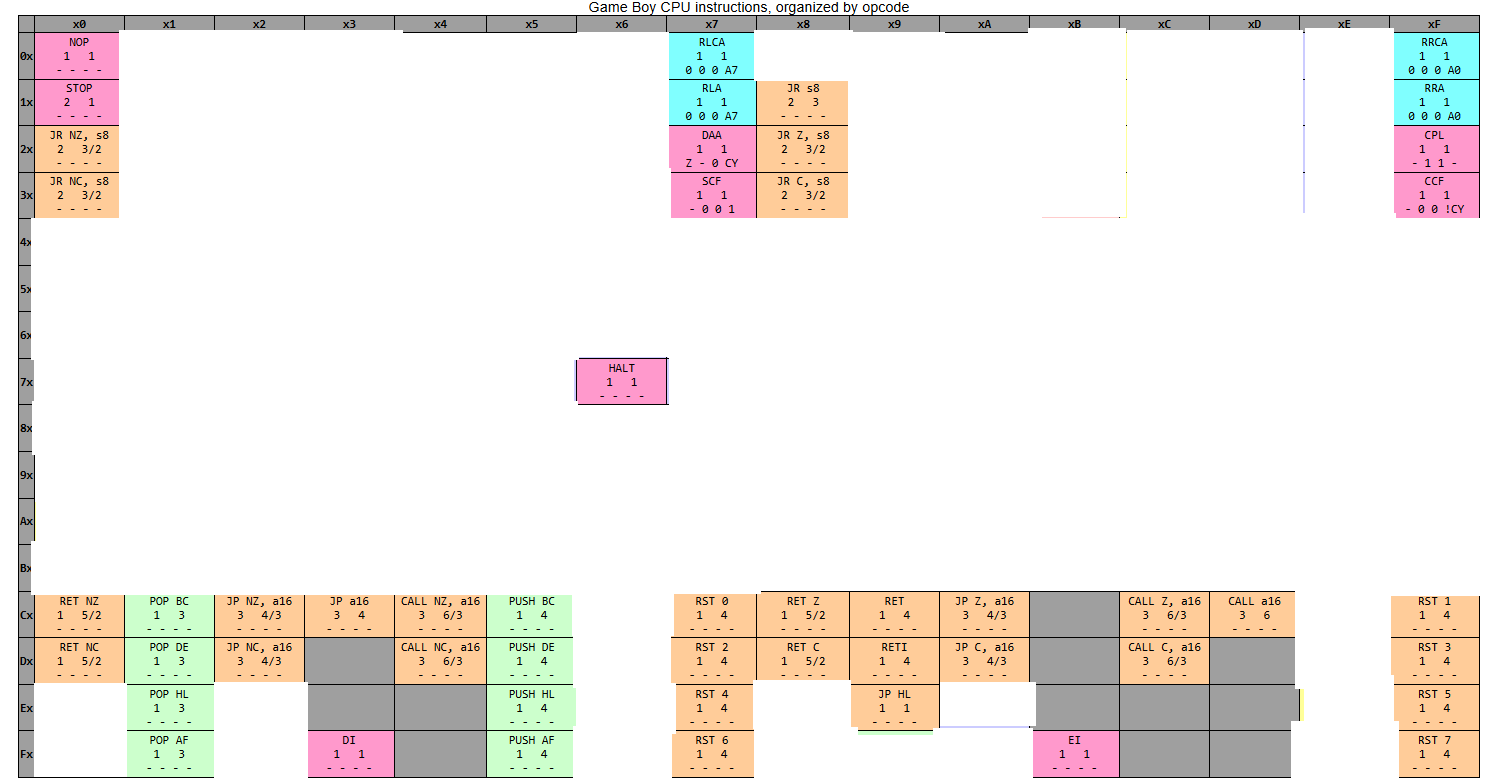
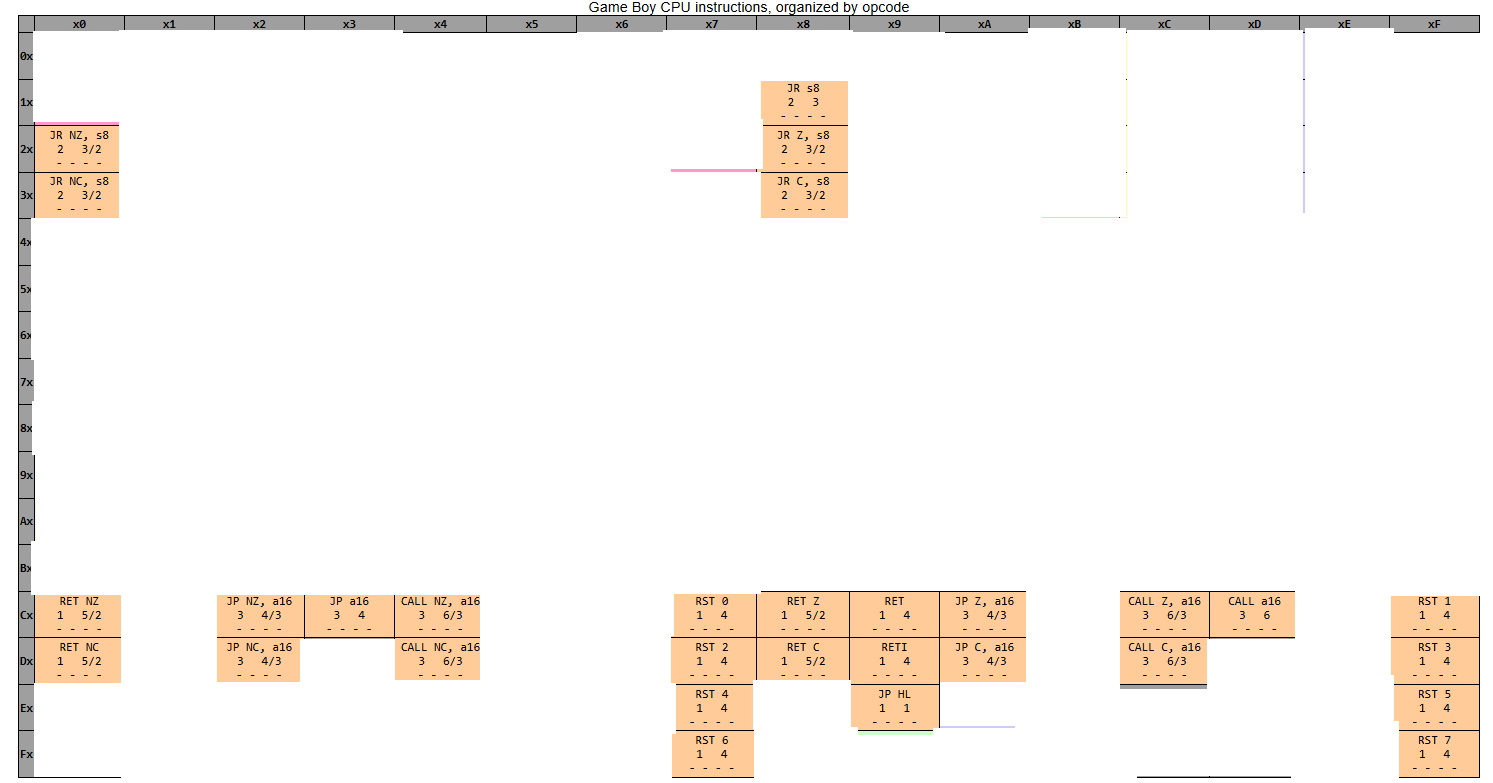
stack control tests

diff --git a/tests/cpu/cpu-test.cpp b/tests/cpu/cpu-test.cpp
@@ -570,6 +570,64 @@ TEST(CPUTest, RotateRegisters)
 }
 
 
+TEST(CPUTest, StackControl)
+{
+	typedef struct TestCaseAddress
+	{
+		std::vector<rose_core::u8> instructions;
+		rose_core::u16 address_to_check;
+		rose_core::u16 expected_value;
+	} TestCaseAddress;
+
+	std::vector<TestCaseAddress> testCasesAddress{
+		{ { 0xE8, 0x64, 0x01, 0xCD, 0xAB, 0xC5 }, 0x62, 0xCD }, // Set stack pointer to 100, then BC to 0xABCD. Push 0xABCD to stack.
+		{ { 0xE8, 0x64, 0x01, 0xCD, 0xAB, 0xC5 }, 0x63, 0xAB }, // Set stack pointer to 100, then BC to 0xABCD. Push 0xABCD to stack. 
+	};
+
+	for (TestCaseAddress test : testCasesAddress)
+	{
+		rose_core::MMU mmu;
+		rose_core::CPU cpu(mmu, 0x0);
+
+		loadVectorToMemory(test.instructions, mmu);
+
+		while (cpu.viewRegisters().programCounter < test.instructions.size())
+		{
+			ASSERT_NO_FATAL_FAILURE(cpu.executeInstruction());
+		}
+		EXPECT_EQ(test.expected_value, mmu.getU8(test.address_to_check));
+	}
+
+	typedef struct TestCaseRegister
+	{
+		std::vector<rose_core::u8> instructions;
+		ERegister eRegister;
+		rose_core::u16 expected_value;
+	} TestCaseRegister;
+
+	std::vector<TestCaseRegister> testCasesRegister{
+		{ { 0xE8, 0x64, 0x01, 0xCD, 0xAB, 0xC5 }, SP, 0x62 }, // Set stack pointer to 100, then BC to 0xABCD. Push 0xABCD to stack. 
+
+		{ { 0xE8, 0x64, 0x01, 0xCD, 0xAB, 0xC5, 0xD1 }, DE, 0xABCD }, // Set stack pointer to 100, then BC to 0xABCD. Push 0xABCD to stack. Pop into DE.
+		{ { 0xE8, 0x64, 0x01, 0xCD, 0xAB, 0xC5, 0xD1 }, SP, 0x64 }, // Set stack pointer to 100, then BC to 0xABCD. Push 0xABCD to stack. Pop into DE.
+	};
+
+	for (TestCaseRegister test : testCasesRegister)
+	{
+		rose_core::MMU mmu;
+		rose_core::CPU cpu(mmu, 0x0);
+
+		loadVectorToMemory(test.instructions, mmu);
+
+		while (cpu.viewRegisters().programCounter < test.instructions.size())
+		{
+			ASSERT_NO_FATAL_FAILURE(cpu.executeInstruction());
+		}
+		EXPECT_EQ(test.expected_value, getERegister(cpu, test.eRegister));
+	}
+	
+}
+
 
 TEST(CPUTest, Miscellaneous)
 {

diff --git a/src/core/cpu/cpu.cpp b/src/core/cpu/cpu.cpp
@@ -485,9 +485,7 @@ namespace rose_core {
 	void CPU::INC_SP() { m_registers.stackPointer++; }
 	void CPU::LD_SP_N16(u16 p_n) { m_mmu.setU16(m_registers.stackPointer, p_n); }
 	void CPU::LD_N16_SP(u16 p_n) { m_mmu.setU16(p_n, ((m_registers.stackPointer & 0xFF) << 8) | (m_registers.stackPointer >> 8)); }
-	
 	void CPU::LD_HL_SP_S8(s8 p_s) { setFlagZ(false); setFlagN(false); setFlagH(willHalfCarry(m_registers.stackPointer, (u16)signedToPositiveUnsigned(p_s), p_s >= 0)); setFlagC(willCarry(m_registers.stackPointer, (u16)signedToPositiveUnsigned(p_s), p_s >= 0)); m_registers.stackPointer += p_s; m_registers.hl = m_registers.stackPointer; }
-	
 	void CPU::LD_SP_HL() { m_registers.stackPointer = m_registers.hl; }
 	void CPU::POP_AF() { m_registers.af = m_mmu.getU16(m_registers.stackPointer); m_registers.stackPointer += 2; }
 	void CPU::POP_R16(Register16& p_r) { p_r = m_mmu.getU16(m_registers.stackPointer); m_registers.stackPointer += 2; }
